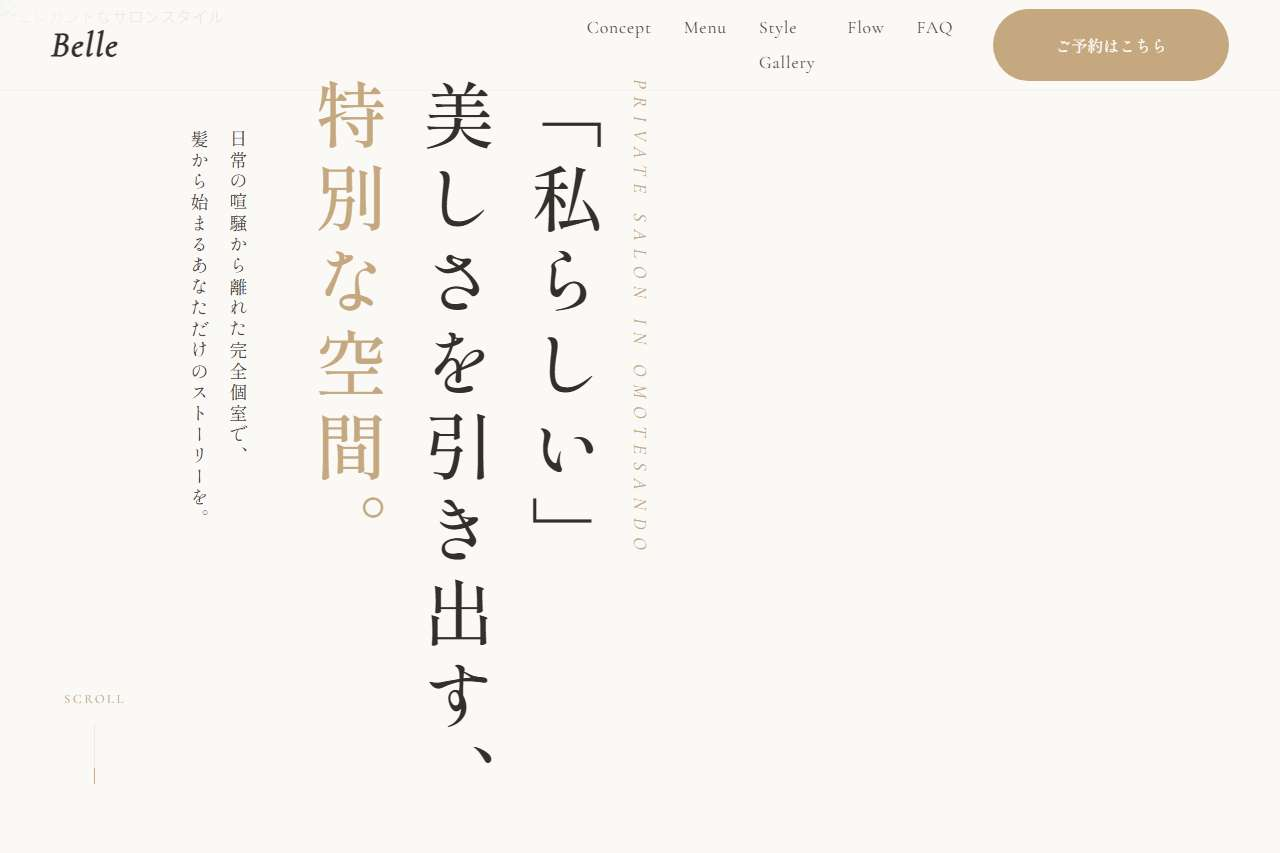
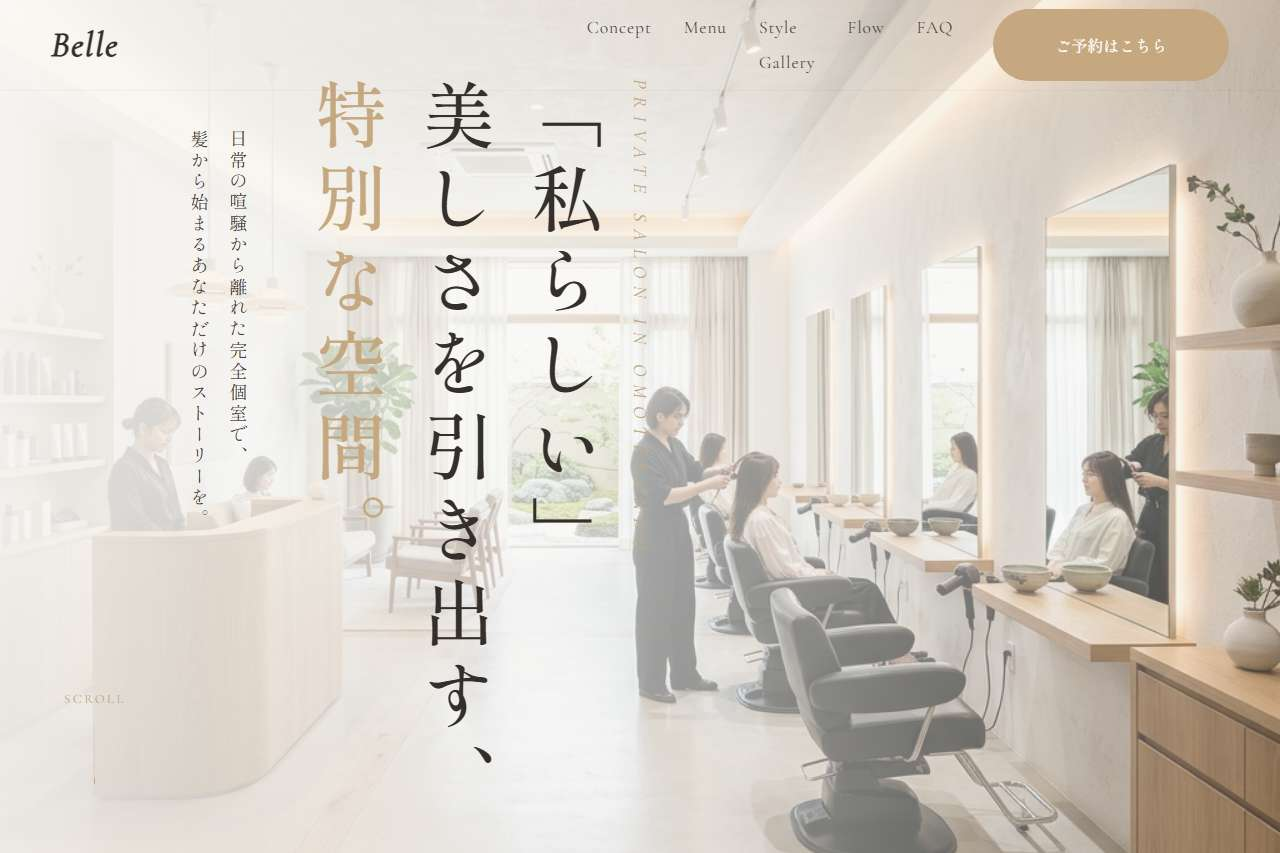
Fix: Replace broken Unsplash links in salon-01 with photorealistic generated local images

diff --git a/demos/salon-01/index.html b/demos/salon-01/index.html
@@ -41,7 +41,7 @@
   <!-- Hero Section -->
   <section class="hero">
     <div class="hero-bg">
-      <img src="https://images.unsplash.com/photo-1521590832167-7bfc620cb6b2?ixlib=rb-4.0.3&auto=format&fit=crop&w=1920&q=80" alt="エレガントなサロンスタイル">
+      <img src="assist/images/hero.png" alt="エレガントなサロンスタイル">
     </div>
     <div class="hero-mask"></div>
     <div class="hero-content fade-target">
@@ -97,7 +97,7 @@
           </div>
         </div>
         <div class="phil-img fade-target offset-delay">
-          <img src="https://images.unsplash.com/photo-1560066984-138dadb4c035?ixlib=rb-4.0.3&auto=format&fit=crop&w=800&q=80" alt="丁寧なカウンセリング風景">
+          <img src="assist/images/concept.png" alt="丁寧なカウンセリング風景">
           <div class="badge">完全<br><span class="num">個室</span></div>
         </div>
       </div>
@@ -116,7 +116,7 @@
       <div class="srv-grid">
         <div class="srv-card fade-target">
           <div class="srv-img">
-            <img src="https://images.unsplash.com/photo-1522337660859-02fbefca4702?ixlib=rb-4.0.3&auto=format&fit=crop&w=600&q=80" alt="似合わせカット">
+            <img src="assist/images/bob.png" alt="似合わせカット">
           </div>
           <div class="srv-body">
             <h3><span class="en">Cut</span> 骨格矯正・似合わせカット</h3>
@@ -127,7 +127,7 @@
         
         <div class="srv-card fade-target delay-1">
           <div class="srv-img">
-            <img src="https://images.unsplash.com/photo-1562322140-8baeececf3df?ixlib=rb-4.0.3&auto=format&fit=crop&w=600&q=80" alt="プレミアムカラー">
+            <img src="assist/images/color.png" alt="プレミアムカラー">
           </div>
           <div class="srv-body">
             <h3><span class="en">Color</span> プレミアム透明感カラー</h3>
@@ -138,7 +138,7 @@
 
         <div class="srv-card fade-target delay-2">
           <div class="srv-img">
-            <img src="https://images.unsplash.com/photo-1515377905703-c4788e51af15?ixlib=rb-4.0.3&auto=format&fit=crop&w=600&q=80" alt="髪質改善トリートメント">
+            <img src="assist/images/spa.png" alt="髪質改善トリートメント">
           </div>
           <div class="srv-body">
             <h3><span class="en">Treatment</span> 髪質改善トリートメント</h3>
@@ -162,7 +162,7 @@
         <div class="work-item fade-target">
           <div class="wa-img">
             <div class="ba-tag">大人ショートボブ</div>
-            <img src="https://images.unsplash.com/photo-1519699047748-de8e457a634e?ixlib=rb-4.0.3&auto=format&fit=crop&w=800&q=80" alt="スタイル事例1">
+            <img src="assist/images/bob.png" alt="スタイル事例1">
           </div>
           <div class="wa-text">
             <h3>首元を美しく魅せる、大人のための洗練ショートボブ</h3>
@@ -173,7 +173,7 @@
         <div class="work-item reverse fade-target delay-1">
           <div class="wa-img">
             <div class="ba-tag">オリーブグレージュ</div>
-            <img src="https://images.unsplash.com/photo-1620601633519-21a42b0c3639?ixlib=rb-4.0.3&auto=format&fit=crop&w=800&q=80" alt="スタイル事例2">
+            <img src="assist/images/color.png" alt="スタイル事例2">
           </div>
           <div class="wa-text">
             <h3>光に透けるような透明感。赤みを抑えたオリーブグレージュ</h3>

diff --git a/fix_salon_images.py b/fix_salon_images.py
@@ -1,0 +1,26 @@
+import re
+
+file_path = r'd:\sharkstars\demos\salon-01\index.html'
+with open(file_path, 'r', encoding='utf-8') as f:
+    text = f.read()
+
+# Replace hero
+text = re.sub(r'https://images.unsplash.com/photo-[^"]+', lambda m: 'assist/images/hero.png' if '1521590832167' in m.group(0) else m.group(0), text)
+# Replace philosophy
+text = re.sub(r'https://images.unsplash.com/photo-[^"]+', lambda m: 'assist/images/concept.png' if '1560066984' in m.group(0) else m.group(0), text)
+# Replace cuts/treatments
+text = re.sub(r'https://images.unsplash.com/photo-[^"]+', lambda m: 'assist/images/bob.png' if '1522337660859' in m.group(0) else m.group(0), text)
+text = re.sub(r'https://images.unsplash.com/photo-[^"]+', lambda m: 'assist/images/color.png' if '1562322140' in m.group(0) else m.group(0), text)
+text = re.sub(r'https://images.unsplash.com/photo-[^"]+', lambda m: 'assist/images/spa.png' if '1515377905703' in m.group(0) else m.group(0), text)
+
+# Replace Gallery
+text = re.sub(r'https://images.unsplash.com/photo-[^"]+', lambda m: 'assist/images/bob.png' if '1519699047748' in m.group(0) else m.group(0), text)
+text = re.sub(r'https://images.unsplash.com/photo-[^"]+', lambda m: 'assist/images/color.png' if '1620601633519' in m.group(0) else m.group(0), text)
+
+# By this point all unsplash images should be replaced. Let me just replace ALL unsplash with hero just in case any were missed.
+text = re.sub(r'https://images.unsplash.com/photo-[^"]+', 'assist/images/hero.png', text)
+
+with open(file_path, 'w', encoding='utf-8') as f:
+    f.write(text)
+
+print("Updated image src in salon-01/index.html")
